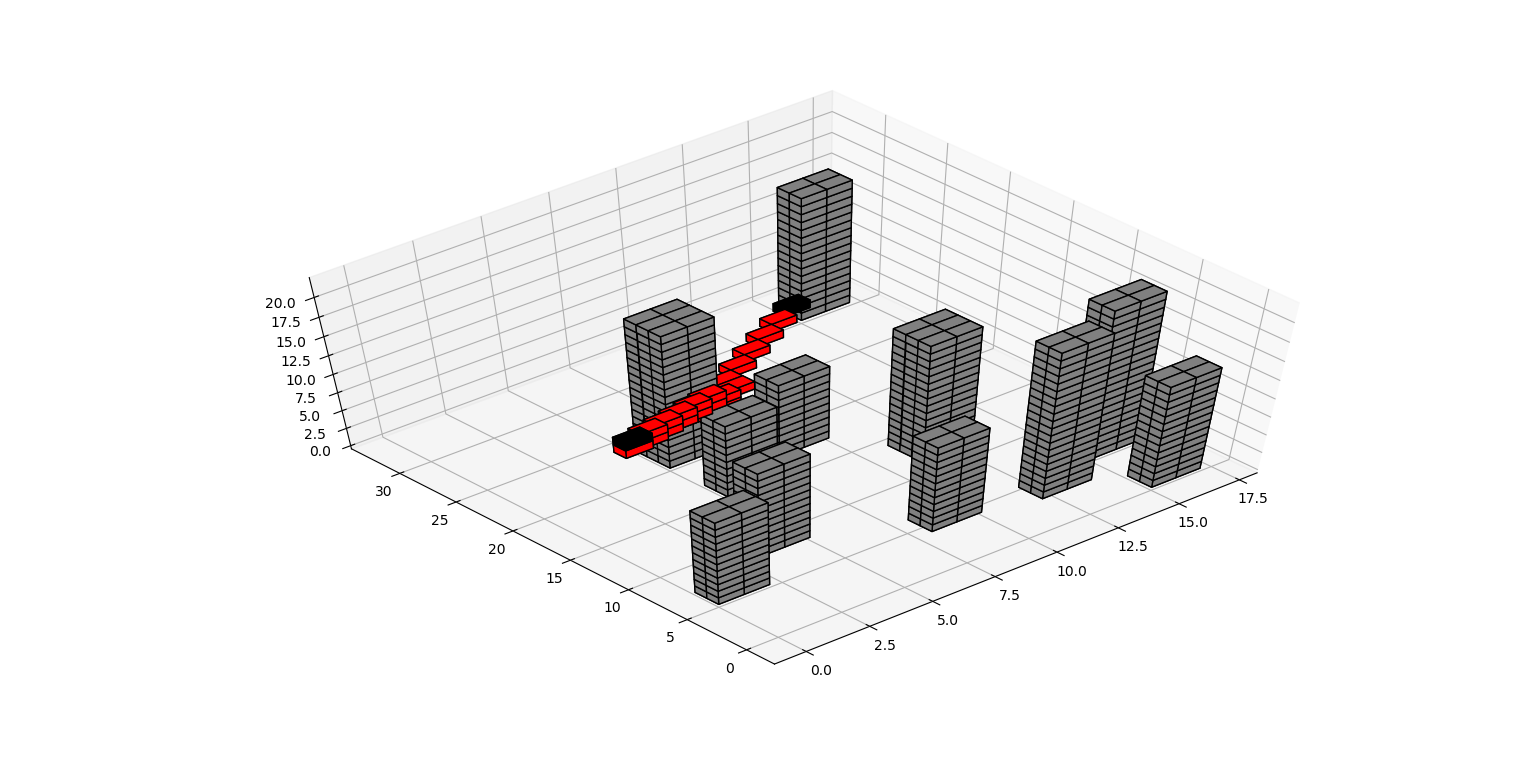
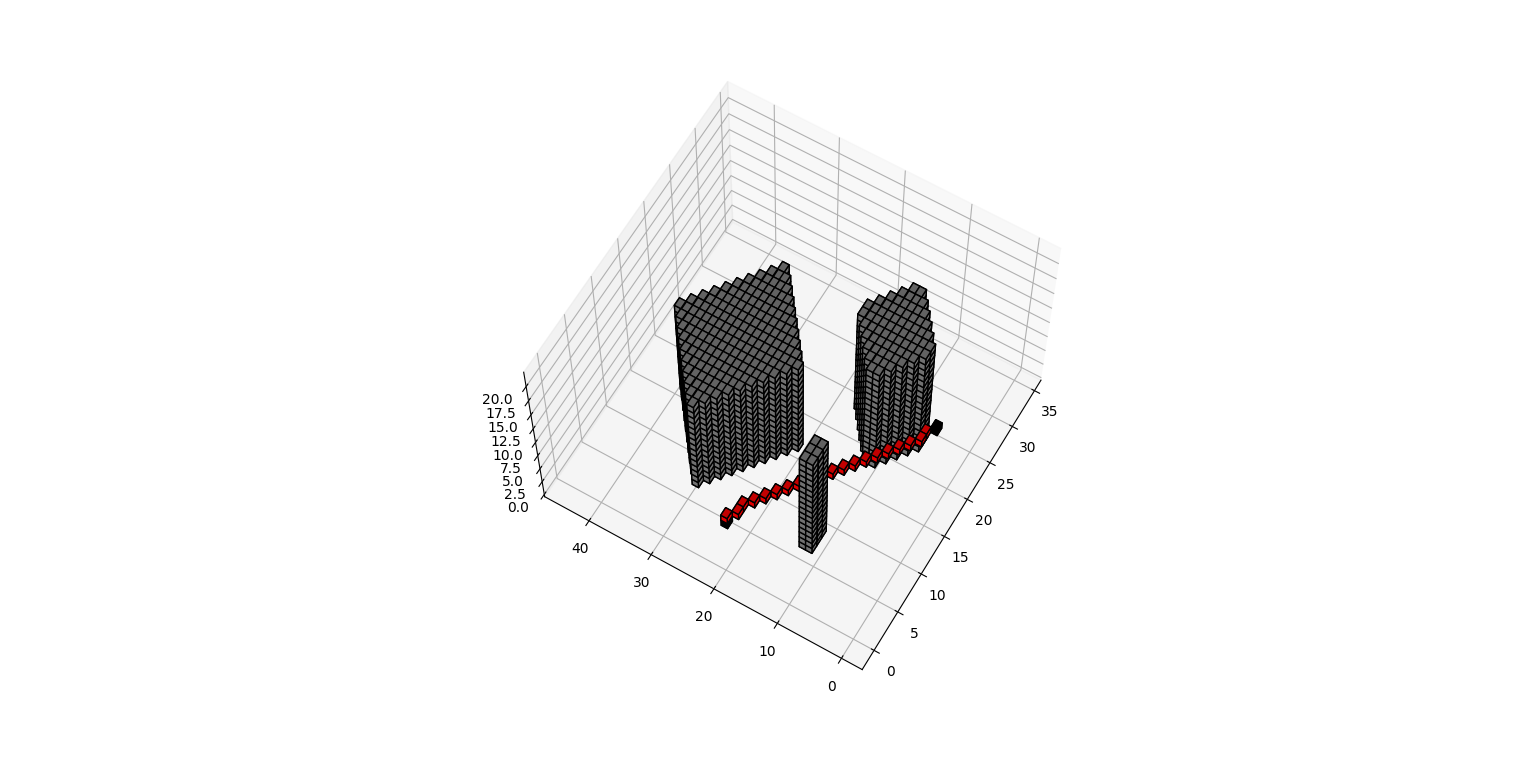
Support non-rect obstacles

Changed region(s): [[0.1562, 0.1209, 0.8438, 0.8765]]

diff --git a/utils_3D.py b/utils_3D.py
@@ -1,85 +1,177 @@
 from enum import Enum
 from queue import PriorityQueue
-import numpy as np
+import matplotlib.pyplot as plt
+from mpl_toolkits.mplot3d import Axes3D
 import numpy.linalg as LA
+import numpy as np
+import random
 
 class Motion_Planer:
     def __init__(self, data):
-        self.create_voxmap(data)
-        
-    def create_voxmap(self, data, target_altitude = 2, safety_distance = 0, voxel_size=1):
-        self.voxmap, self.north_offset, self.east_offset, self.alt_offset = create_voxmap(data, target_altitude = 2, safety_distance = 0, voxel_size=1)
-        self.offset = [self.north_offset, self.east_offset, self.alt_offset]
-        
-    def find_paths(self, voxmap_start, voxmap_goal, flag_offset = 1):
+        """
+        ****data descripe the buildings or obstacles****
+        data: [z, a_x,a_y, b_x,b_y, c_x,c_y, d_x,d_y, h]
+            z is botttom of the building in z-anix
+            a,b,c,d are vertices of rectangle， a = (a_x, a_y)
+            h is the height
+        """
+        self.voxmap, self.offset = create_voxmap(data)
+        #print("map_offset:", self.offset)
+    def find_paths(self, voxmap_start, voxmap_goal, flag_offset = 1, flag_virtual = 0):
         if flag_offset == 1:
-            voxmap_start = [ (i+j) for i,j in zip(voxmap_start, self.offset)]
-            voxmap_goal = [ (i+j) for i,j in zip(voxmap_goal, self.offset)]
-        paths, _ = a_star_3D(self.voxmap, heuristic, voxmap_start, voxmap_goal)
-        paths_r = paths[1:0]
-        paths_r = [ (i-j) for i,j in zip(paths_r, self.offset)]
-        return paths_r, paths
+            voxmap_start = [round(i - j) for i,j in zip(voxmap_start, self.offset)]
+            voxmap_goal = [round(i - j) for i,j in zip(voxmap_goal, self.offset)]
+        paths, _ = a_star_3D(self.voxmap, heuristic, tuple(voxmap_start), tuple(voxmap_goal))
+        paths_r = [ [i[0]+self.offset[0], i[1]+self.offset[1], i[2]+self.offset[2]] for i in paths[1:]]
+        #print("paths: ", paths)
+        #print("paths_r: ", paths_r)
+        if flag_virtual == 1:
+            # #virtualize
+            # start and end points
+            traj_s_e = np.zeros(self.voxmap.shape, dtype=np.bool)
+            traj_s_e[voxmap_start[0]][voxmap_start[1]][voxmap_start[2]] = True
+            traj_s_e[voxmap_goal[0]][voxmap_goal[1]][voxmap_goal[2]] = True
+            traj = np.zeros(self.voxmap.shape, dtype=np.bool)
+            for path in paths[1:-1]:
+                traj[path] = True
+            #combine obstacle, sratr-end points, and waypoints
+            World = self.voxmap |traj_s_e |traj
+            # set the colors of each object
+            colors = np.empty(self.voxmap.shape, dtype = object)
+            colors[self.voxmap] = 'grey'
+            colors[traj_s_e] = "black"
+            colors[traj] = "red"
+            print("Prepare to show the Virtual Worlf of motion planning")
+            #plot
+            fig = plt.figure()
+            ax = fig.gca(projection='3d')
+            ax.voxels(World, facecolors=colors, edgecolor='k')
+            plt.show()
+        return paths_r
+    def rand_points(self):
+        while True:
+            n_goal = random.randint(0, self.voxmap.shape[0] - 1)
+            e_goal = random.randint(0, self.voxmap.shape[1] - 1)
+            alt_goal = random.randint(0, self.voxmap.shape[2] - 1)
+            if self.voxmap[n_goal, e_goal, alt_goal] == 0:
+                break
+        # Voxmap goal
+        voxmap_goal = [n_goal, e_goal, alt_goal]
+        while True:
+            n_start = random.randint(0, self.voxmap.shape[0] - 1)
+            e_start = random.randint(0, self.voxmap.shape[1] - 1)
+            alt_start = random.randint(0, self.voxmap.shape[2] - 1)
+            if self.voxmap[n_start, e_start, alt_start] == 0:
+                break
+        # Voxmap start
+        voxmap_start = [n_start, e_start, alt_start]
+        voxmap_start = [round(i + j) for i,j in zip(voxmap_start, self.offset)]
+        voxmap_goal = [round(i + j) for i,j in zip(voxmap_goal, self.offset)]
+        return voxmap_goal, voxmap_start
 
 def heuristic(position, goal_position):
     return LA.norm(np.array(position) - np.array(goal_position))
 
-def create_voxmap(data, target_altitude, safety_distance, voxel_size=5):
+def create_voxmap(data, map_margin = 5, safety_distance = 0, voxel_size = 1):
+    #data: (z, a, b, c, d, h), a,b,c,d are vertices of rectangle. h is the height.
     """
     Returns a grid representation of a 3D configuration space
     based on given obstacle data and safety distance
 
-    The `target_altitude` argument sets the altitude the drone wants to fly
-    so the voxmap will be centered in that altitude.
-
-    The `voxel_size` argument sets the resolution of the voxel map.
+    The 'target_altitude': highest point + target_altitude is the height of the map.
+    The 'voxel_size' argument sets the resolution of the voxel map.
     """
-    #in case z < 0
-    z_origin = min(data[:, 2])
-    if z_origin < 0:
-        data[:, 2] = data[:, 2] - z_origin
+    # minimum and maximum coordinates
+    data = np.array(data)
+    # temp = data[:, 1][0]# + data[:, 2][0] + data[:, 3][0] + data[:, 4][0]
+    x_all = np.hstack((data[:, 1], data[:, 3], data[:, 5], data[:, 7]))
+    y_all = np.hstack((data[:, 2], data[:, 4], data[:, 6], data[:, 8]))
+    #start point
+    s_p_x = np.floor(np.min(x_all))  
+    s_p_y = np.floor(np.min(y_all))  
+    x_offset = s_p_x - map_margin
+    y_offset = s_p_y - map_margin
+    #end point
+    e_p_x = np.ceil(np.max(x_all))  
+    e_p_y = np.ceil(np.max(y_all))  
+    # z-axis
+    z_offset = np.min(data[:, 0])
 
-    # minimum and maximum north coordinates
-    north_min = np.floor(np.amin(data[:, 0] - data[:, 3]))
-    north_max = np.ceil(np.amax(data[:, 0] + data[:, 3]))
+    x_size = int(e_p_x - s_p_x + map_margin*2)
+    y_size = int(e_p_y - s_p_y + map_margin*2)
+    z_size = int(np.max(data[:, 0]- z_offset + data[:, 9]) + map_margin)
 
-    # minimum and maximum east coordinates
-    east_min = np.floor(np.amin(data[:, 1] - data[:, 4]))
-    east_max = np.ceil(np.amax(data[:, 1] + data[:, 4]))
-
-    alt_max = np.ceil(np.amax(data[:, 2] + data[:, 5]*2)) + target_altitude
-    alt_min = np.ceil(np.amin(data[:, 2]))
-    #alt_max = target_altitude#2 * target_altitude
-
-    # given the minimum and maximum coordinates we can
-    # calculate the size of the grid.
-    north_size = int(np.ceil((north_max - north_min))) // voxel_size
-    east_size = int(np.ceil((east_max - east_min))) // voxel_size
-    alt_size = int(np.ceil((alt_max - alt_min))) // voxel_size
-
-    voxmap = np.zeros((north_size, east_size, alt_size), dtype=np.bool)
+    voxmap = np.zeros((x_size, y_size, z_size), dtype=np.bool)
 
     for i in range(data.shape[0]):
-        north, east, alt, d_north, d_east, d_alt = data[i, :]
-        # fill in the voxels that are part of an obstacle with `True`
-        #
-        # i.e. grid[0:5, 20:26, 2:7] = True
+        z, a_x,a_y, b_x,b_y, c_x,c_y, d_x,d_y, h = data[i, :]
+        a = [a_x,a_y]; b = [b_x,b_y]; c = [c_x,c_y]; d = [d_x,d_y]
+        x_index, y_index = map_color_seg(a, b, c, d)
+        x_index = x_index - x_offset
+        y_index = y_index - y_offset
+        z = int(z - z_offset)
+        voxmap[x_index.astype(int), y_index.astype(int), z:(z+h)] = True
 
-        north1 = int(north - north_min - d_north - safety_distance) // voxel_size
-        east1 = int(east - east_min - d_east - safety_distance) // voxel_size
+    offset = [x_offset, y_offset, z_offset]
+    return voxmap, offset
 
-        north2 = int(np.ceil((north - north_min + d_north + safety_distance) / voxel_size))
-        east2 = int(np.ceil((east - east_min + d_east + safety_distance) / voxel_size))
-        alt2_up = int(np.ceil((alt - alt_min + d_alt*2 + safety_distance) / voxel_size))
-        alt2_down = int(np.ceil((alt -alt_min - safety_distance) / voxel_size))
+def map_color_seg(a,b,c,d):
+    def linear_k_b(point1, point2):
+        if point1[0] == point2[0]:
+            k = 0
+        else:
+            k = (point1[1] - point2[1])/(point1[0] - point2[0])
+        b = point1[1] - k*point1[0]
+        return k, b
+    ab_linear = linear_k_b(a, b)
+    bc_linear = linear_k_b(b, c)
+    cd_linear = linear_k_b(c, d)
+    da_linear = linear_k_b(d, a)
 
-        voxmap[north1:north2, east1:east2, alt2_down:alt2_up] = True
+    #start point
+    s_p_x = np.floor(np.min([a[0], b[0], c[0], d[0]]))  
+    s_p_y = np.floor(np.min([a[1], b[1], c[1], d[1]]))  
+    #end point
+    e_p_x = np.ceil(np.max([a[0], b[0], c[0], d[0]]))  
+    e_p_y = np.ceil(np.max([a[1], b[1], c[1], d[1]]))  
 
-    if z_origin < 0:
-        z_offset = alt_min - z_origin
-    else:
-        z_offset = alt_min
-    return voxmap, int(north_min), int(east_min), int(z_offset)
+    offset = [s_p_x, s_p_y]
+    size = [int(e_p_x - s_p_x), int(e_p_y - s_p_y)]
 
+    ab_map = np.zeros((size[0], size[1]))
+    bc_map = np.zeros((size[0], size[1]))
+    cd_map = np.zeros((size[0], size[1]))
+    da_map = np.zeros((size[0], size[1]))
+
+    for x in range(size[0]):
+        for y in range(size[1]):
+            #two color for ab_map
+            if (x+offset[0])*ab_linear[0] + ab_linear[1] - (y+offset[1]) >=0:
+                ab_map[x][y] = 7
+            else:
+                ab_map[x][y] = 3
+            #two color for cd_map
+            if (x+offset[0])*cd_linear[0] + cd_linear[1] - (y+offset[1]) <=0:
+                cd_map[x][y] = -7
+            else:
+                cd_map[x][y] = -3
+
+            #two color for bc_map
+            if (x+offset[0])*bc_linear[0] + bc_linear[1] - (y+offset[1]) >=0:
+                bc_map[x][y] = 19
+            else:
+                bc_map[x][y] = 37
+            #two color for da_map
+            if (x+offset[0])*da_linear[0] + da_linear[1] - (y+offset[1]) <=0:
+                da_map[x][y] = -19
+            else:
+                da_map[x][y] = -37
+    map_all = ab_map + bc_map + cd_map + da_map
+    map_all[np.nonzero(map_all)]=1
+    [x_index, y_index] = np.where(map_all == 0)
+    x_index = x_index + offset[0]
+    y_index = y_index + offset[1]
+    return x_index.astype(int), y_index.astype(int)
 
 ### 3D A*
 class Action3D(Enum):
@@ -153,7 +245,7 @@ def valid_actions_3D(voxel, current_node):
 
     return valid_actions
 
-def a_star_3D(voxel, start, goal):
+def a_star_3D(voxel, h, start, goal):
 
     path = []
     path_cost = 0
@@ -182,7 +274,7 @@ def a_star_3D(voxel, start, goal):
                 da = action.delta
                 next_node = (current_node[0] + da[0], current_node[1] + da[1], current_node[2] + da[2])
                 branch_cost = current_cost + action.cost
-                queue_cost = branch_cost + heuristic(next_node, goal)
+                queue_cost = branch_cost + h(next_node, goal)
 
                 if next_node not in visited:
                     visited.add(next_node)

diff --git a/motion_planning.py b/motion_planning.py
@@ -1,63 +1,21 @@
 import numpy as np
-import csv
-import random
 from utils_3D import Motion_Planer
-import matplotlib.pyplot as plt
-from mpl_toolkits.mplot3d import Axes3D
+
+
 
 if __name__ == "__main__":
 
-    # Read in obstacle map
-    #posX	posY	posZ	halfSizeX	halfSizeY	SizeZ
-    #(posX, posY, posZ) is in the middle of the actor
-    data = np.loadtxt('colliders.csv', delimiter=',', dtype='Float64', skiprows=1)
-
+    data = [[1, 0,20, 10,10, 20,20, 10,30, 15], [0, 1,1, 1,4, 4,4, 4,1, 17], [0, 18,-4, 24,2, 18,8, 12,2, 17]]
+    """
+    ****data descripe the buildings or obstacles****
+    data: [z, a_x,a_y, b_x,b_y, c_x,c_y, d_x,d_y, h]
+        z is botttom of the building in z-anix
+        a,b,c,d are vertices of rectangle， a = (a_x, a_y)
+        h is the height
+    """
     motion_planer = Motion_Planer(data)
-
-    # Set goal point
-    while True:
-        x_goal = random.randint(0, motion_planer.voxmap.shape[0] - 1)
-        y_goal = random.randint(0, motion_planer.voxmap.shape[1] - 1)
-        z_goal = random.randint(0, motion_planer.voxmap.shape[2] - 1)
-        if motion_planer.voxmap[x_goal, y_goal, z_goal] == 0:
-            break
-    # Voxmap goal
-    voxmap_goal = (x_goal, y_goal, z_goal)
-
-    # Set start point
-    while True:
-        x_start = random.randint(0, motion_planer.voxmap.shape[0] - 1)
-        y_start = random.randint(0, motion_planer.voxmap.shape[1] - 1)
-        z_start = random.randint(0, motion_planer.voxmap.shape[2] - 1)
-        if motion_planer.voxmap[x_start, y_start, z_start] == 0:
-            break
-    # Voxmap start
-    voxmap_start = (x_start, y_start, z_start)
+    voxmap_start, voxmap_goal = motion_planer.rand_points() #generate a random start point and end point
     
-
     # Run A* to find a path from start to goal
-    paths_r, paths_offset = motion_planer.find_paths(voxmap_start, voxmap_goal)
-    # print("paths_offset: ", paths_offset)
-    # print("Paths_real: ", paths_r)    
-
-    # #virtualize
-    # start and end points
-    traj_s_e = np.zeros(motion_planer.voxmap.shape, dtype=np.bool)
-    traj_s_e[voxmap_start] = True
-    traj_s_e[voxmap_goal] = True
-    #generated waypoints
-    traj = np.zeros(motion_planer.voxmap.shape, dtype=np.bool)
-    for path in paths_offset:
-        traj[path] = True
-    #combine obstacle, sratr-end points, and waypoints
-    World = motion_planer.voxmap | traj |traj_s_e
-    # set the colors of each object
-    colors = np.empty(motion_planer.voxmap.shape, dtype = object)
-    colors[motion_planer.voxmap] = 'grey'
-    colors[traj] = "red"
-    colors[traj_s_e] = "black"
-    #plot
-    fig = plt.figure()
-    ax = fig.gca(projection='3d')
-    ax.voxels(World, facecolors=colors, edgecolor='k')
-    plt.show()
+    paths_r = motion_planer.find_paths(voxmap_start, voxmap_goal, flag_virtual = 1)
+    #print("paths_r: ", paths_r)

diff --git a/README.md b/README.md
@@ -4,7 +4,9 @@
 # OverView
 This project can generate discrete waypoints in a 3D discrete environment.
 This project is based on these resources:
-1. [jotredi/3D_Motion_Planning](https://github.com/jotredi/3D_Motion_Planning), fixed bugs of offset in Z-axis leading to incomplete calculation.
+1. [jotredi/3D_Motion_Planning](https://github.com/jotredi/3D_Motion_Planning)
+
+Note: The way to descripe the obstacles is changed to support non-rectangle obstacles.
 
 # How to Run
 ```
